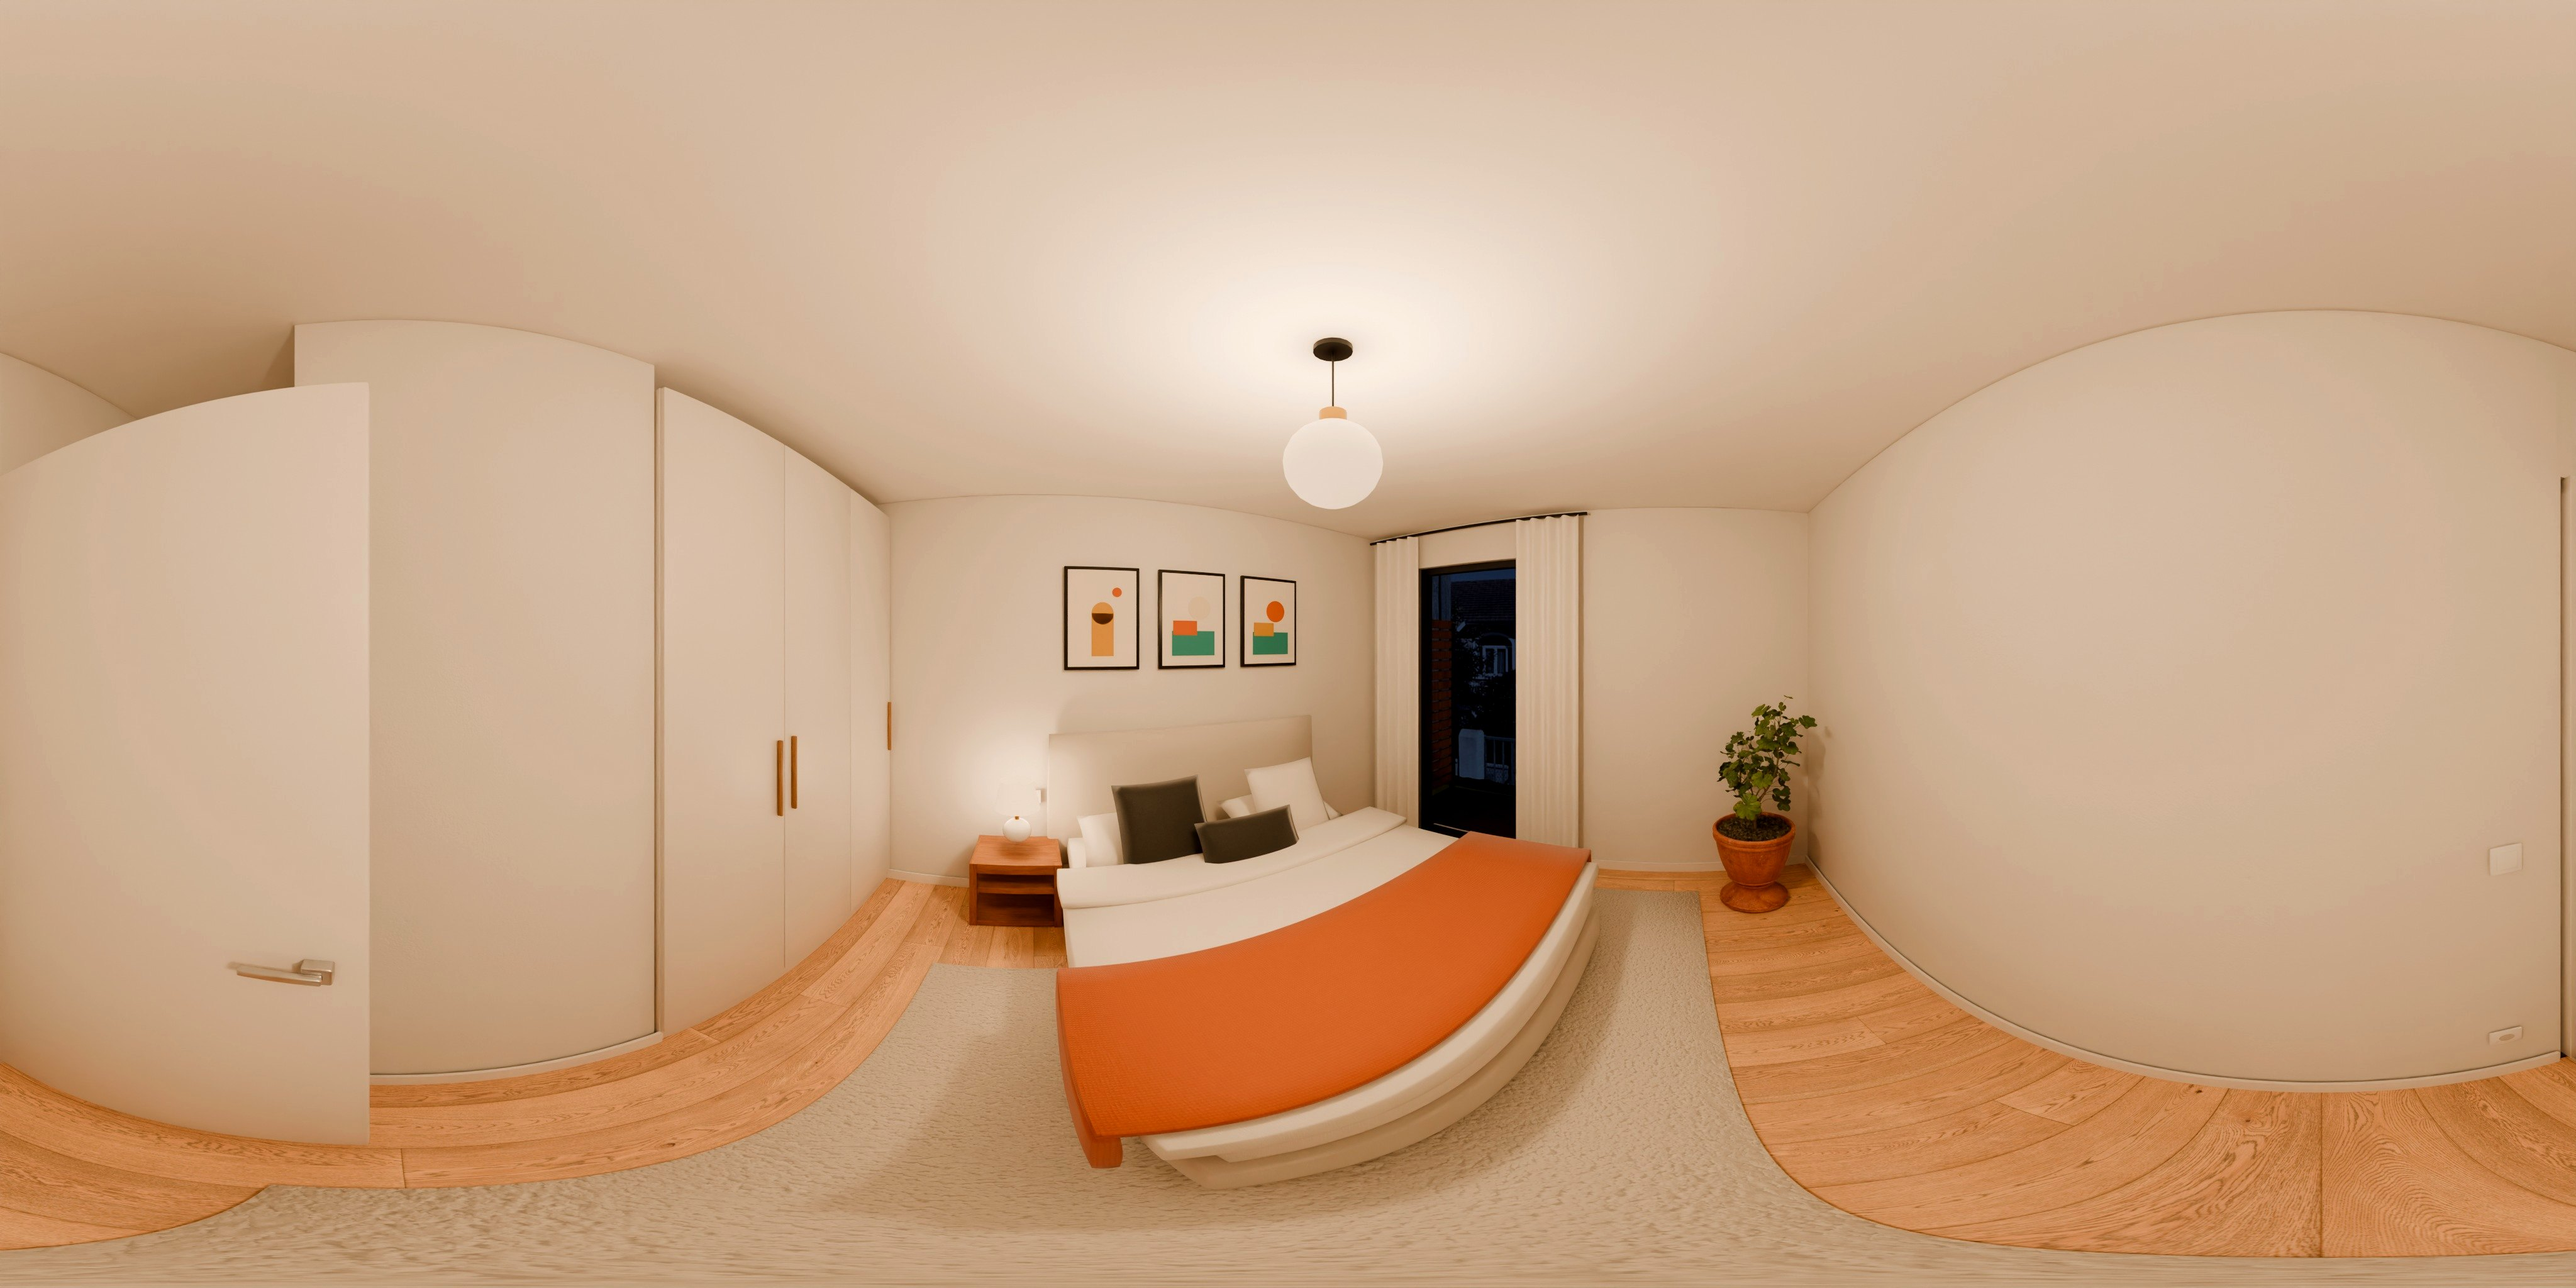
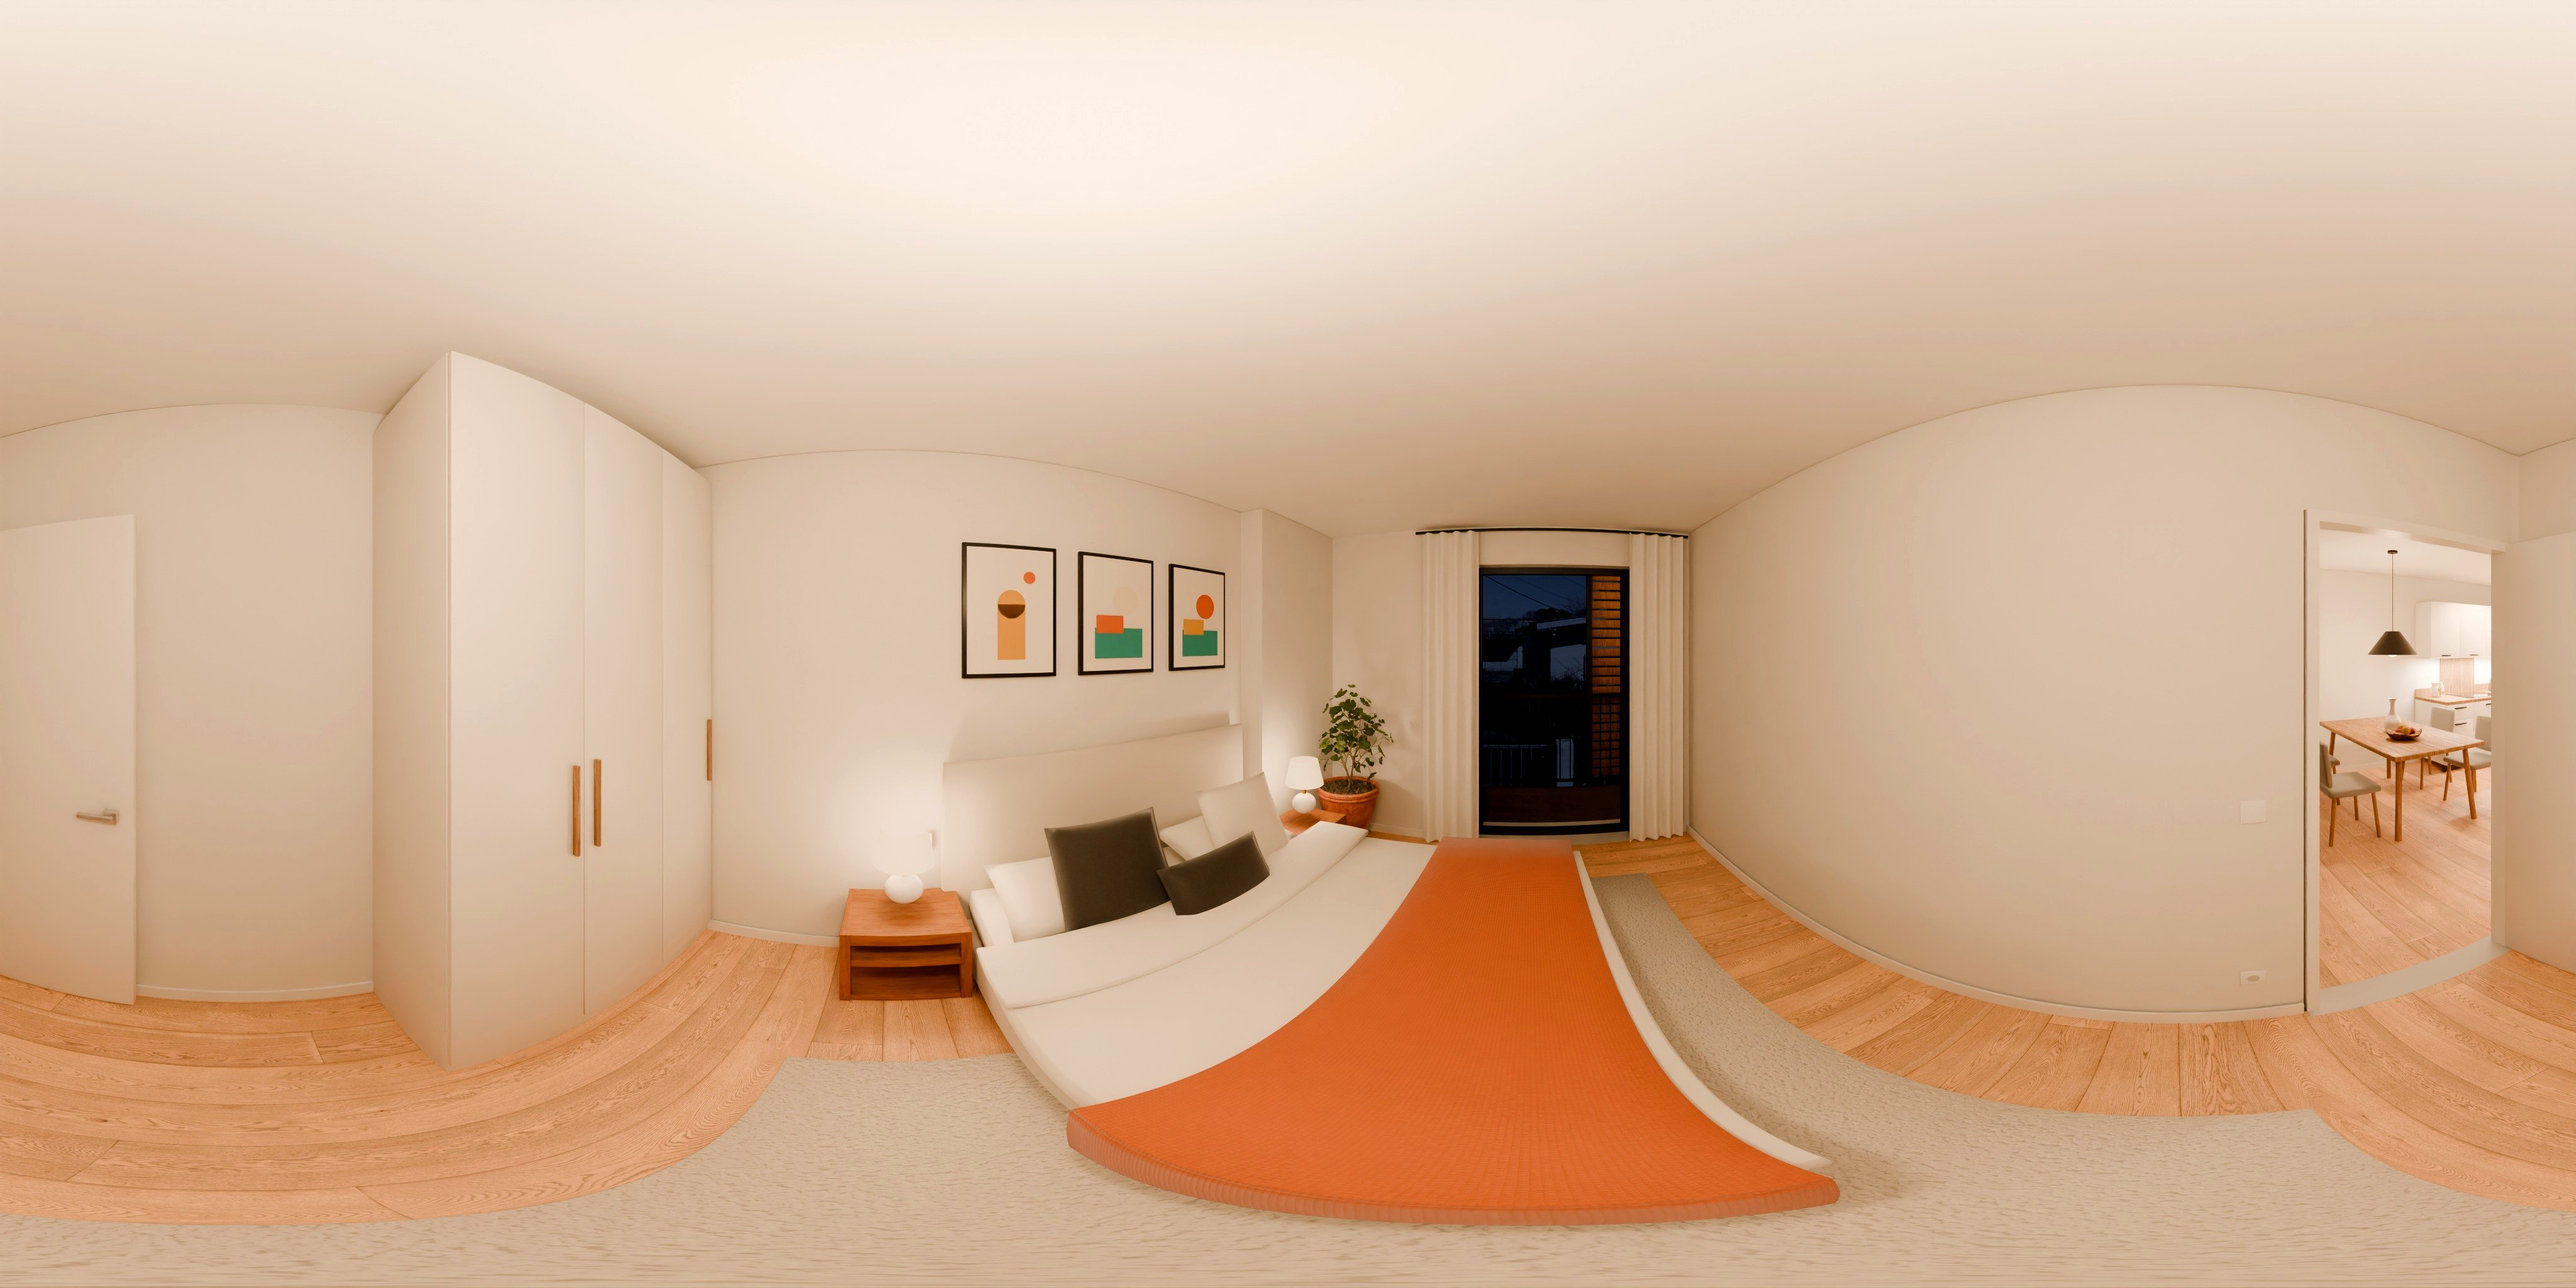
Visite 360 du T2 : plan remesuré sur l'image du promoteur, jour et nuit (remplace la version du 13/11)
Claude-Session: https://claude.ai/code/session_018cp9xZ2BySLCsGTU3HURzH

diff --git a/v/3y4xjp9ttsg7lp5k/index.html b/v/3y4xjp9ttsg7lp5k/index.html
@@ -10,7 +10,7 @@
 <meta property="og:type" content="website">
 <meta property="og:title" content="T2 de 46 m²">
 <meta property="og:description" content="Visitez ce logement pièce par pièce, en regardant tout autour de vous. Domaine Capeyron, Mérignac">
-<meta property="og:image" content="https://tobo-team.github.io/visites/v/3y4xjp9ttsg7lp5k/apercu.jpg">
+<meta property="og:image" content="apercu.jpg">
 <meta property="og:image:width" content="1200">
 <meta property="og:image:height" content="630">
 <meta name="twitter:card" content="summary_large_image">
